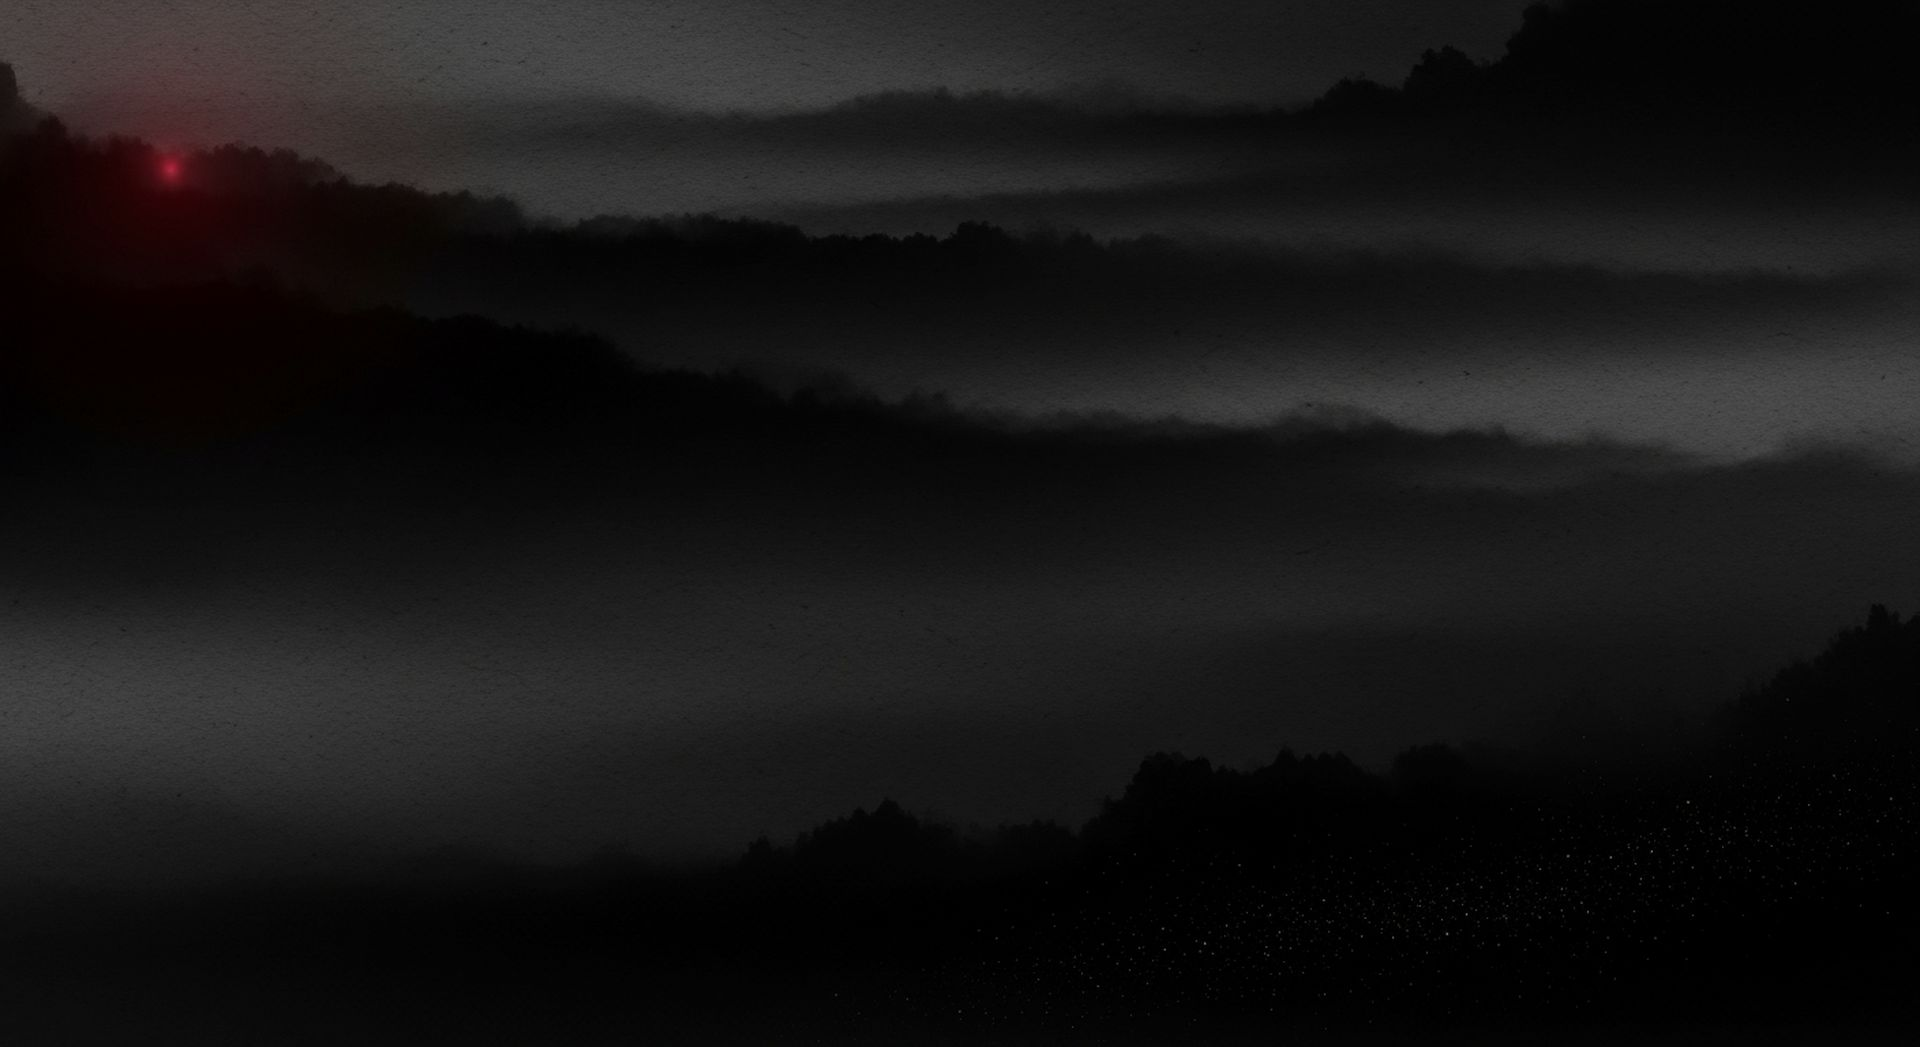
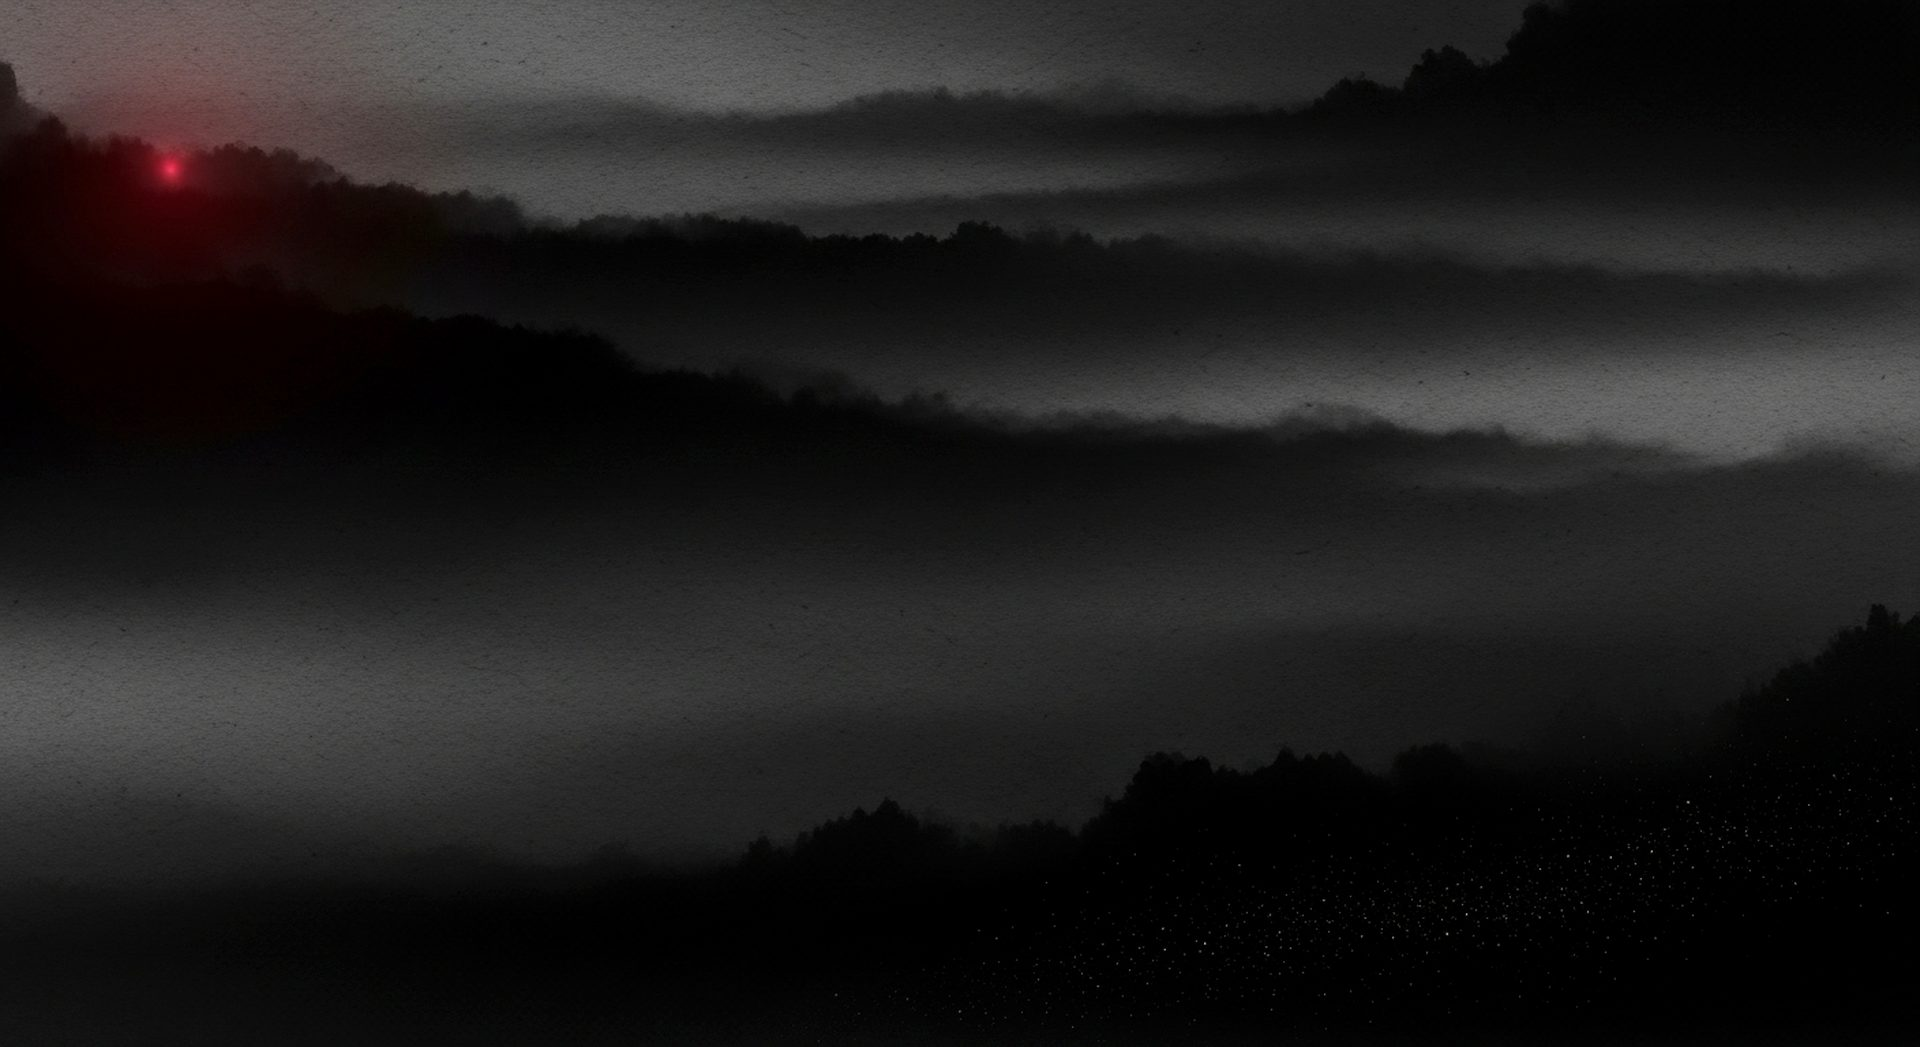
games: brighter ink-wash backdrop, drifting ember particles, staggered nonlinear entrances

diff --git a/games.md b/games.md
@@ -66,8 +66,16 @@ permalink: /games/
     z-index: 0;
     pointer-events: none;
     background:
-      linear-gradient(to bottom, rgba(12,12,16,0.38), rgba(12,12,16,0.12) 38%, rgba(12,12,16,0.62)),
+      linear-gradient(to bottom, rgba(12,12,16,0.22), rgba(12,12,16,0.04) 38%, rgba(12,12,16,0.5)),
       url('{{ "/assets/img/games-bg.jpg" | relative_url }}') center / cover no-repeat;
+  }
+  #games-fx {
+    position: fixed;
+    inset: 0;
+    z-index: 1;
+    width: 100%;
+    height: 100%;
+    pointer-events: none;
   }
   .games-shell::before {
     content: "";
@@ -86,6 +94,38 @@ permalink: /games/
     margin: 0 auto;
     padding: 0 2rem;
   }
+  /* —— nonlinear entrances —— */
+  @keyframes rise {
+    from { opacity: 0; transform: translateY(26px); }
+    to   { opacity: 1; transform: none; }
+  }
+  @keyframes ruleGrow {
+    from { width: 0; opacity: 0; }
+    60%  { opacity: 1; }
+    to   { width: 60px; }
+  }
+  .games-eyebrow { animation: rise 0.9s cubic-bezier(.16,.84,.3,1) both; }
+  .games-title   { animation: rise 1.0s cubic-bezier(.16,.84,.3,1) 0.08s both; }
+  .games-rule    { animation: ruleGrow 1.1s cubic-bezier(.16,.84,.3,1.06) 0.22s both; }
+  .games-lede    { animation: rise 1.0s cubic-bezier(.16,.84,.3,1) 0.3s both; }
+  .game-card {
+    opacity: 0;
+    transform: translateY(34px) scale(0.975);
+  }
+  .game-card.in {
+    opacity: 1;
+    transform: none;
+    transition:
+      opacity 0.9s cubic-bezier(.22,.9,.3,1),
+      transform 0.95s cubic-bezier(.16,.84,.28,1.06);   /* slight overshoot */
+    transition-delay: calc(var(--d, 0) * 95ms);
+  }
+  @media (prefers-reduced-motion: reduce) {
+    .games-eyebrow, .games-title, .games-rule, .games-lede { animation: none; }
+    .game-card { opacity: 1; transform: none; transition: none; }
+    #games-fx { display: none; }
+  }
+
   .games-eyebrow {
     font-family: var(--sans);
     font-size: 0.78rem;
@@ -264,6 +304,7 @@ permalink: /games/
 
 <div class="games-shell">
   <div class="games-bgimg" aria-hidden="true"></div>
+  <canvas id="games-fx" aria-hidden="true"></canvas>
   <div class="games-inner">
     <p class="games-eyebrow">¶ The Arcade Wing</p>
     <h1 class="games-title">Games</h1>
@@ -301,3 +342,91 @@ permalink: /games/
     {% endif %}
   </div>
 </div>
+
+<script>
+(() => {
+  const reduced = matchMedia("(prefers-reduced-motion: reduce)").matches;
+
+  /* —— staggered card entrances (nonlinear, scroll-triggered) —— */
+  const cards = document.querySelectorAll(".game-card");
+  cards.forEach((c, i) => c.style.setProperty("--d", i % 4));
+  if (reduced || !("IntersectionObserver" in window)) {
+    cards.forEach((c) => c.classList.add("in"));
+  } else {
+    const io = new IntersectionObserver((es) => es.forEach((e) => {
+      if (e.isIntersecting) { e.target.classList.add("in"); io.unobserve(e.target); }
+    }), { threshold: 0.12, rootMargin: "0px 0px -4% 0px" });
+    cards.forEach((c) => io.observe(c));
+  }
+
+  /* —— drifting embers: prerendered sprites + additive compositing —— */
+  if (reduced) return;
+  const cv = document.getElementById("games-fx");
+  const ctx = cv.getContext("2d");
+  const DPR = Math.min(devicePixelRatio || 1, 1.5);
+  let W = 0, H = 0;
+
+  // sprite factory: soft radial glow baked once (no per-frame shadowBlur)
+  function sprite(r, g, b) {
+    const s = document.createElement("canvas");
+    s.width = s.height = 64;
+    const c = s.getContext("2d");
+    const grad = c.createRadialGradient(32, 32, 0, 32, 32, 32);
+    grad.addColorStop(0, `rgba(${r},${g},${b},1)`);
+    grad.addColorStop(0.25, `rgba(${r},${g},${b},0.55)`);
+    grad.addColorStop(1, `rgba(${r},${g},${b},0)`);
+    c.fillStyle = grad;
+    c.fillRect(0, 0, 64, 64);
+    return s;
+  }
+  const GOLD = sprite(232, 199, 137);
+  const EMBER = sprite(217, 117, 112);
+
+  const ps = [];
+  function spawn(p, fresh) {
+    p.x = Math.random() * W;
+    p.y = fresh ? Math.random() * H : H + 20;
+    p.size = 1.6 + Math.random() * 3.4;            // px radius at DPR 1
+    p.vy = 9 + Math.random() * 22;                 // px/s upward
+    p.swayAmp = 14 + Math.random() * 30;
+    p.swayFreq = 0.25 + Math.random() * 0.5;
+    p.phase = Math.random() * Math.PI * 2;
+    p.alpha = 0.25 + Math.random() * 0.5;
+    p.twFreq = 0.6 + Math.random() * 1.8;          // twinkle
+    p.img = Math.random() < 0.22 ? EMBER : GOLD;
+    return p;
+  }
+  function resize() {
+    W = innerWidth; H = innerHeight;
+    cv.width = W * DPR; cv.height = H * DPR;
+    ctx.setTransform(DPR, 0, 0, DPR, 0, 0);
+    const want = Math.round(Math.min(90, (W * H) / 26000)); // density-scaled, capped
+    while (ps.length < want) ps.push(spawn({}, true));
+    ps.length = want;
+  }
+  resize();
+  addEventListener("resize", resize);
+
+  let last = performance.now();
+  function frame(t) {
+    requestAnimationFrame(frame);
+    const dt = Math.min((t - last) / 1000, 0.05);
+    last = t;
+    ctx.clearRect(0, 0, W, H);
+    ctx.globalCompositeOperation = "lighter";
+    const tt = t / 1000;
+    for (const p of ps) {
+      p.y -= p.vy * dt;
+      if (p.y < -20) spawn(p, false);
+      const x = p.x + Math.sin(tt * p.swayFreq * Math.PI * 2 + p.phase) * p.swayAmp;
+      const tw = 0.65 + 0.35 * Math.sin(tt * p.twFreq * Math.PI * 2 + p.phase * 1.7);
+      ctx.globalAlpha = p.alpha * tw;
+      const d = p.size * 8;                        // sprite is mostly halo — draw big
+      ctx.drawImage(p.img, x - d / 2, p.y - d / 2, d, d);
+    }
+    ctx.globalAlpha = 1;
+    ctx.globalCompositeOperation = "source-over";
+  }
+  requestAnimationFrame(frame);
+})();
+</script>
